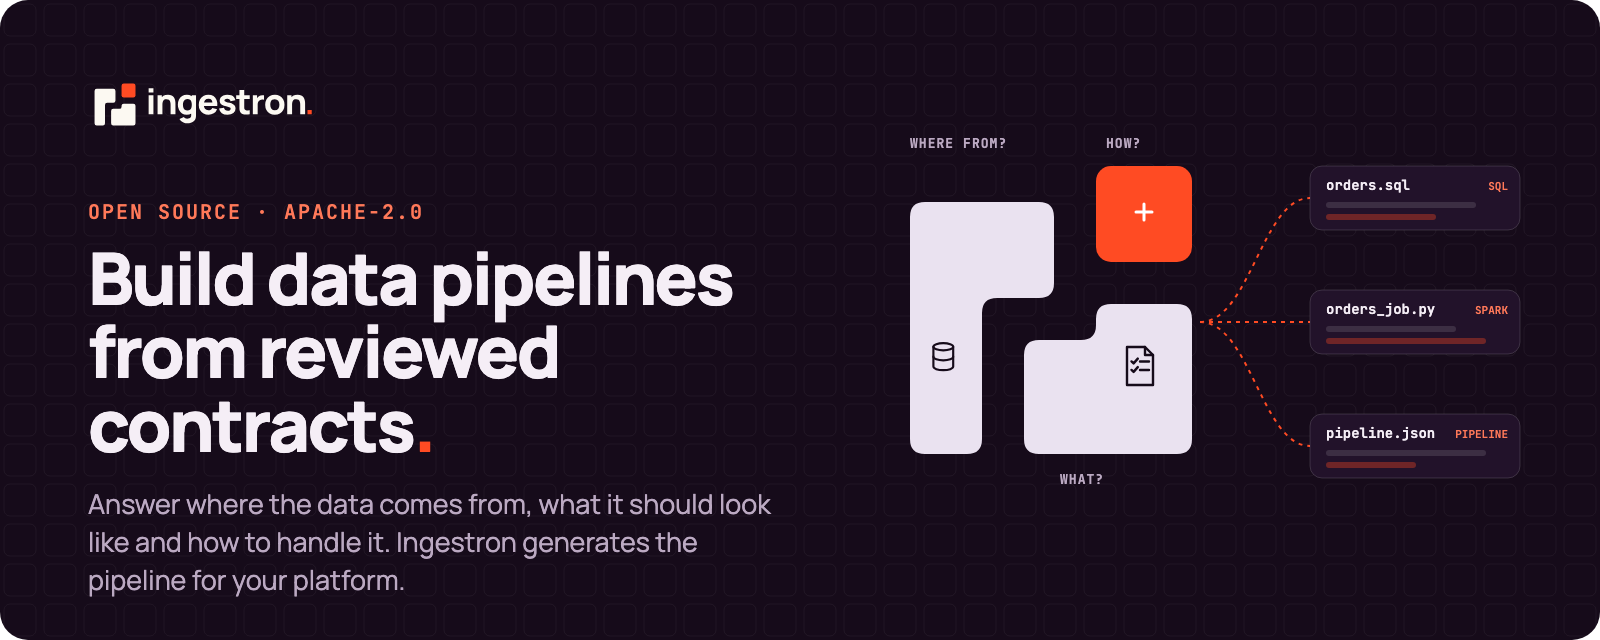
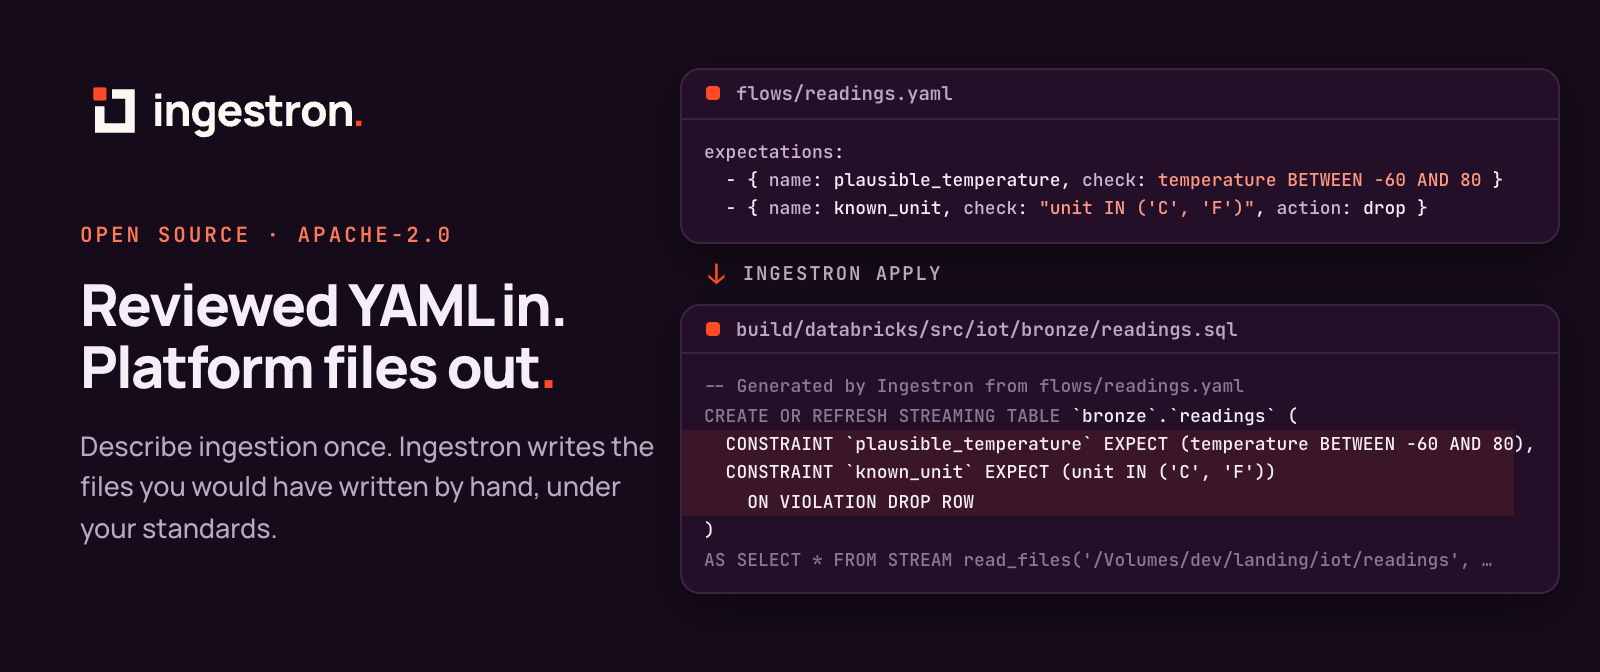
Refresh the organisation profile: current brand, real examples, all repositories
New hero and images drawn from the Air + Close-knit mark, the avatar updated
to match, the legacy website screenshot removed, every public repository
listed with the Fabric pack marked as coming soon, and the location and legal
wording dropped. The check now verifies each asset's hash against
provenance.json and that the README uses every image.

diff --git a/scripts/check.py b/scripts/check.py
@@ -1,12 +1,14 @@
 """Check the static public profile without third-party dependencies."""
+import hashlib
 import json
 import re
-from pathlib import Path
 import struct
 import xml.etree.ElementTree as ET
+from pathlib import Path
 
 root = Path(__file__).resolve().parents[1]
 assets = root / 'profile/assets'
+base = 'https://raw.githubusercontent.com/ingestron/.github/main/profile/assets/'
 
 
 def png_size(path):
@@ -15,20 +17,38 @@ def png_size(path):
     return struct.unpack('>II', data[16:24])
 
 
-assert png_size(assets / 'hero-light.png') == (1600, 640)
-assert png_size(assets / 'hero-dark.png') == (1600, 640)
+def sha256(path):
+    return hashlib.sha256(path.read_bytes()).hexdigest()
+
+
+# Every image is rendered at device scale 2, so 1600 pixels wide.
+for name in ['hero-light.png', 'hero-dark.png']:
+    assert png_size(assets / name)[0] == 1600, name
 assert png_size(assets / 'avatar.png') == (512, 512)
-assert png_size(assets / 'how-it-works.png')[0] >= 1600
 ET.parse(assets / 'avatar.svg')
-assert json.loads((assets / 'provenance.json').read_text())['version'] == '2.0.0'
+
+provenance = json.loads((assets / 'provenance.json').read_text())
+assert provenance['brand'] == 'Ingestron brand (Air + Close-knit)'
+for entry in provenance['assets']:
+    assert sha256(assets / entry['path']) == entry['sha256'], entry['path']
+recorded = {entry['path'] for entry in provenance['assets']}
+present = {path.name for path in assets.iterdir() if path.name != 'provenance.json'}
+assert recorded == present, sorted(recorded ^ present)
 
 readme = (root / 'profile/README.md').read_text()
 assert 'security@ingestron.io' in readme
-base = 'https://raw.githubusercontent.com/ingestron/.github/main/profile/assets/'
-for name in ['hero-light.png', 'hero-dark.png']:
-    assert base + name in readme, name
-for prohibited in ['npm install -g ', 'customer data is', 'guaranteed savings']:
-    assert prohibited not in readme.lower(), prohibited
+used = set(re.findall(re.escape(base) + r'([\w.-]+)', readme))
+assert {'hero-light.png', 'hero-dark.png'} <= used, used
+for name in used:
+    assert (assets / name).exists(), name
+    assert name in recorded, name
+for name in present - used - {'avatar.png', 'avatar.svg'}:
+    raise AssertionError(f'{name} is not used by the README')
+
+text = readme.lower()
+for prohibited in ['customer data is', 'guaranteed savings',
+                   'new zealand', 'auckland', 'otrera', 'pacific/']:
+    assert prohibited not in text, prohibited
 # Versions belong in the documentation, not the profile.
 assert not re.search(r'\b\d+\.\d+\.\d+\b', readme), 'version number in README'
 print('Profile assets, provenance and wording checked.')

diff --git a/profile/README.md b/profile/README.md
@@ -1,6 +1,6 @@
 <picture>
   <source media="(prefers-color-scheme: dark)" srcset="https://raw.githubusercontent.com/ingestron/.github/main/profile/assets/hero-dark.png">
-  <img src="https://raw.githubusercontent.com/ingestron/.github/main/profile/assets/hero-light.png" alt="Ingestron: build data pipelines from reviewed contracts. Open source, Apache-2.0." width="100%">
+  <img src="https://raw.githubusercontent.com/ingestron/.github/main/profile/assets/hero-light.png" alt="Ingestron: reviewed YAML in, platform files out. A flow's expectations next to the Databricks SQL Ingestron generates from them." width="100%">
 </picture>
 
 <p align="center">
@@ -13,36 +13,63 @@
   <a href="https://www.npmjs.com/package/ingestron"><b>npm</b></a>
 </p>
 
-## Get started
+## Try it
 
-You need Node.js 22.13 or later.
+You need Node.js 22.13 or later. No cloud account and no data source are needed.
 
 ```sh
-npx ingestron init demo --template minimal --yes
-cd demo
-npx ingestron plan
+npm install -g ingestron
+ingestron init shop --template duckdb --yes
+cd shop
+ingestron plan     # what would be written, with diffs
+ingestron apply    # write it
 ```
 
-[Generate your first project](https://docs.ingestron.io/docs/start/first-project) walks through it, and [Install a tool](https://docs.ingestron.io/docs/start/install) covers a global install and the VS Code extension.
+That creates a project from the DuckDB starter and writes its SQL. [Run your first project on your laptop](https://docs.ingestron.io/docs/start/first-project) runs that SQL with DuckDB, explains each file, then changes the project and breaks it on purpose. [Install a tool](https://docs.ingestron.io/docs/start/install) covers a global install and the VS Code extension.
 
-## What it does
+## What you get
 
-You declare data ingestion in YAML definitions: connections, data contracts, flows and transforms. Your organisation's standard chooses the methods and fixes the policy. Ingestron generates the files your own platform runs, such as Databricks Asset Bundles, Lakeflow pipelines and Azure Data Factory copies, for review in a pull request.
+<picture>
+  <source media="(prefers-color-scheme: dark)" srcset="https://raw.githubusercontent.com/ingestron/.github/main/profile/assets/files-dark.png">
+  <img src="https://raw.githubusercontent.com/ingestron/.github/main/profile/assets/files-light.png" alt="One project, the files for each platform: Databricks bundle and SQL, Azure Data Factory pipeline and parameters, Synapse views, DuckDB SQL." width="100%">
+</picture>
 
-It runs on your machine, never connects to your sources or your cloud, and never overwrites a file someone edited by hand. In CI, `ingestron check` fails when the generated files are out of date.
+Ingestron writes the files a data engineer would otherwise write by hand. You describe sources, tables and rules in YAML your team reviews; Ingestron applies your organisation's standard and writes ordinary platform files. You deploy them with your platform's own tools, from your own CI/CD pipeline.
+
+- **One build for every environment.** Each platform gets one set of files with only what differs between dev and prod varying, so a reviewer sees exactly what changes.
+- **Nothing of Ingestron at run time.** The generated files need only your platform, and you edit them yourself if you stop using Ingestron.
+- **Your edits are kept.** A file someone changed by hand is reported as a conflict and never overwritten.
+
+## Your standards on every project
+
+The platform team writes one standard: the packs, names, layers, types, default settings, the settings no project may change, and what every data product must declare. [VS Code](https://docs.ingestron.io/docs/tools/vscode) marks a break as you type, `ingestron plan` reports it, and `ingestron check` fails the CI build when the generated files are out of date. See [Set your organisation's standard](https://docs.ingestron.io/docs/how-to/configure-a-standard).
+
+## What it does not do
+
+- It does not connect to your sources or your cloud.
+- It does not deploy anything. Your platform's tools do.
+- It does not read secret values. A `${secret:…}` reference carries only the secret's name.
+- It does not send telemetry, from the command line or from VS Code.
 
 ## Repositories
 
 | Repository | What it holds |
 | :--- | :--- |
-| [ingestron](https://github.com/ingestron/ingestron) | The CLI, the VS Code extension, the Databricks and Azure Data Factory packs, and the documentation |
+| [ingestron](https://github.com/ingestron/ingestron) | The `ingestron` command and the libraries it is built from |
+| [pack-databricks](https://github.com/ingestron/pack-databricks) | Databricks bundles and Lakeflow pipelines |
+| [pack-adf](https://github.com/ingestron/pack-adf) | Azure Data Factory copies from sources your data platform cannot reach |
+| [pack-synapse](https://github.com/ingestron/pack-synapse) | Azure Synapse serverless SQL views |
+| [pack-duckdb](https://github.com/ingestron/pack-duckdb) | DuckDB tables and transforms, locally or in an Azure job |
+| pack-fabric | Microsoft Fabric: coming soon |
+| [vscode](https://github.com/ingestron/vscode) | The VS Code extension: problems as you type, completion, hover and generated-file previews |
+| [docs](https://github.com/ingestron/docs) | The documentation site, [docs.ingestron.io](https://docs.ingestron.io) |
 
 ## Open source
 
-Ingestron is licensed under Apache-2.0. Services for enterprise platform teams are planned on top of the open core, not in place of it.
+Ingestron is licensed under Apache-2.0. The packs and the command are open source, and the documentation is built from them, so what it says matches what the code does.
 
 ## Contact
 
 Questions and feedback: [hello@ingestron.io](mailto:hello@ingestron.io). Report vulnerabilities privately to [security@ingestron.io](mailto:security@ingestron.io); please do not include live secrets or customer data.
 
-<sub>Ingestron is an independent, early-stage project made by IntentLabs in Auckland, New Zealand. Original code is licensed by Otrera Limited, trading as IntentLabs, under Apache-2.0.</sub>
+<sub>Ingestron is an independent project made by IntentLabs. Original code is licensed under Apache-2.0.</sub>
